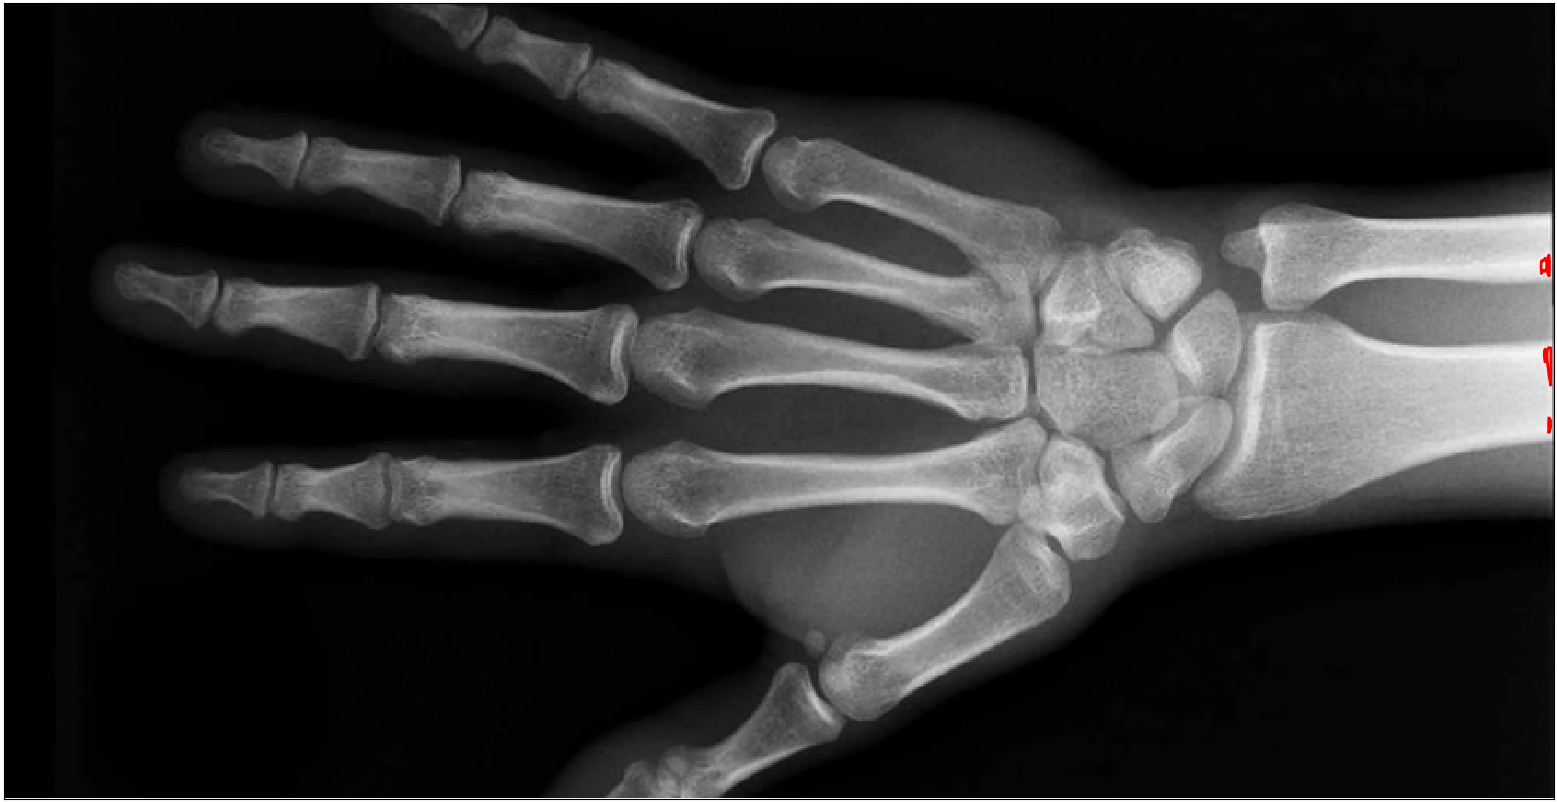
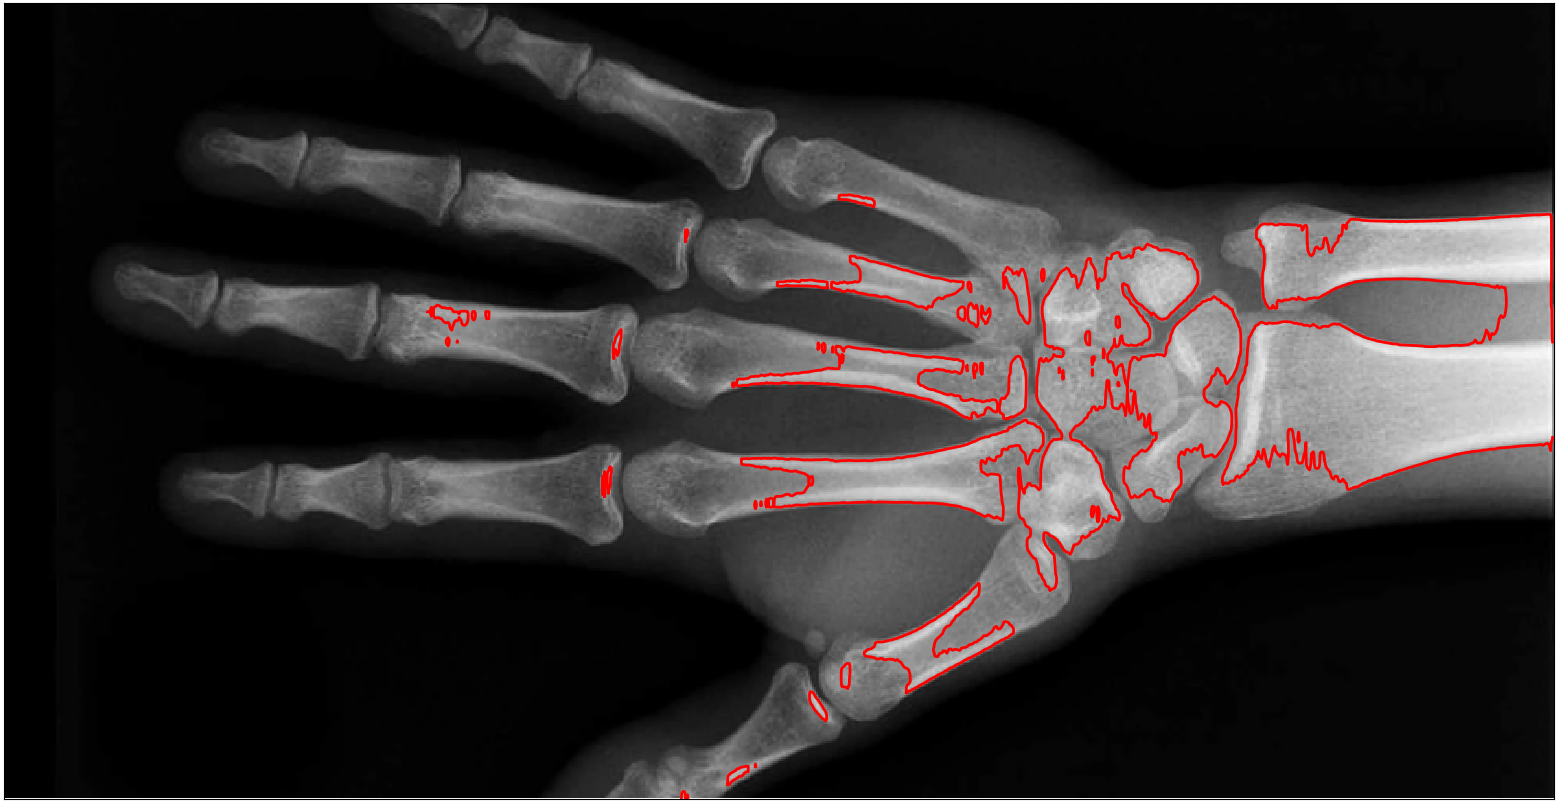
update functions

diff --git a/ui/ui.py b/ui/ui.py
@@ -11,8 +11,9 @@ from PyQt5 import QtCore, QtGui, QtWidgets
 class Ui_MainWindow(object):
     def setupUi(self, MainWindow):
         MainWindow.setObjectName("MainWindow")
-        MainWindow.resize(1235, 732)
+        MainWindow.resize(1331, 732)
         self.centralwidget = QtWidgets.QWidget(MainWindow)
+        self.centralwidget.setMinimumSize(QtCore.QSize(800, 400))
         self.centralwidget.setObjectName("centralwidget")
         self.horizontalLayoutWidget = QtWidgets.QWidget(self.centralwidget)
         self.horizontalLayoutWidget.setGeometry(QtCore.QRect(-1, -1, 1386, 720))
@@ -21,31 +22,39 @@ class Ui_MainWindow(object):
         self.mainLayout.setContentsMargins(50, 50, 50, 50)
         self.mainLayout.setObjectName("mainLayout")
         self.imageWidget = QtWidgets.QWidget(self.horizontalLayoutWidget)
-        self.imageWidget.setMinimumSize(QtCore.QSize(1080, 620))
+        self.imageWidget.setMinimumSize(QtCore.QSize(500, 300))
         self.imageWidget.setObjectName("imageWidget")
         self.imageLayout = QtWidgets.QVBoxLayout(self.imageWidget)
         self.imageLayout.setContentsMargins(20, 20, 20, 20)
         self.imageLayout.setObjectName("imageLayout")
         self.label = QtWidgets.QLabel(self.imageWidget)
-        self.label.setMinimumSize(QtCore.QSize(1040, 0))
         self.label.setObjectName("label")
         self.imageLayout.addWidget(self.label, 0, QtCore.Qt.AlignHCenter)
-        self.mainLayout.addWidget(self.imageWidget, 0, QtCore.Qt.AlignHCenter|QtCore.Qt.AlignVCenter)
+        self.mainLayout.addWidget(self.imageWidget)
         self.controlPanelWidget = QtWidgets.QWidget(self.horizontalLayoutWidget)
+        self.controlPanelWidget.setMaximumSize(QtCore.QSize(300, 16777215))
         self.controlPanelWidget.setObjectName("controlPanelWidget")
         self.controlPanelLayout = QtWidgets.QVBoxLayout(self.controlPanelWidget)
         self.controlPanelLayout.setContentsMargins(20, 20, 20, 20)
         self.controlPanelLayout.setObjectName("controlPanelLayout")
         self.openFileBtn = QtWidgets.QPushButton(self.controlPanelWidget)
+        self.openFileBtn.setMinimumSize(QtCore.QSize(200, 0))
+        self.openFileBtn.setMaximumSize(QtCore.QSize(200, 16777215))
         self.openFileBtn.setObjectName("openFileBtn")
         self.controlPanelLayout.addWidget(self.openFileBtn)
         self.choosePointBtn = QtWidgets.QPushButton(self.controlPanelWidget)
+        self.choosePointBtn.setMinimumSize(QtCore.QSize(200, 0))
+        self.choosePointBtn.setMaximumSize(QtCore.QSize(200, 16777215))
         self.choosePointBtn.setObjectName("choosePointBtn")
         self.controlPanelLayout.addWidget(self.choosePointBtn)
         self.findContourBtn = QtWidgets.QPushButton(self.controlPanelWidget)
+        self.findContourBtn.setMinimumSize(QtCore.QSize(200, 0))
+        self.findContourBtn.setMaximumSize(QtCore.QSize(200, 16777215))
         self.findContourBtn.setObjectName("findContourBtn")
         self.controlPanelLayout.addWidget(self.findContourBtn)
         self.contourOptionWidget = QtWidgets.QWidget(self.controlPanelWidget)
+        self.contourOptionWidget.setMinimumSize(QtCore.QSize(200, 0))
+        self.contourOptionWidget.setMaximumSize(QtCore.QSize(200, 16777215))
         self.contourOptionWidget.setObjectName("contourOptionWidget")
         self.contourOptionLayout = QtWidgets.QFormLayout(self.contourOptionWidget)
         self.contourOptionLayout.setContentsMargins(5, 5, 5, 5)
@@ -63,19 +72,30 @@ class Ui_MainWindow(object):
         self.colorLabel.setObjectName("colorLabel")
         self.contourOptionLayout.setWidget(1, QtWidgets.QFormLayout.LabelRole, self.colorLabel)
         self.colorBtn = QtWidgets.QPushButton(self.contourOptionWidget)
+        self.colorBtn.setText("")
         self.colorBtn.setObjectName("colorBtn")
         self.contourOptionLayout.setWidget(1, QtWidgets.QFormLayout.FieldRole, self.colorBtn)
+        self.label_2 = QtWidgets.QLabel(self.contourOptionWidget)
+        self.label_2.setObjectName("label_2")
+        self.contourOptionLayout.setWidget(2, QtWidgets.QFormLayout.LabelRole, self.label_2)
+        self.valueLine = QtWidgets.QLineEdit(self.contourOptionWidget)
+        self.valueLine.setObjectName("valueLine")
+        self.contourOptionLayout.setWidget(2, QtWidgets.QFormLayout.FieldRole, self.valueLine)
         self.controlPanelLayout.addWidget(self.contourOptionWidget)
         self.deleteContourBtn = QtWidgets.QPushButton(self.controlPanelWidget)
+        self.deleteContourBtn.setMinimumSize(QtCore.QSize(200, 0))
+        self.deleteContourBtn.setMaximumSize(QtCore.QSize(200, 16777215))
         self.deleteContourBtn.setObjectName("deleteContourBtn")
         self.controlPanelLayout.addWidget(self.deleteContourBtn)
         self.saveContourBtn = QtWidgets.QPushButton(self.controlPanelWidget)
+        self.saveContourBtn.setMinimumSize(QtCore.QSize(200, 0))
+        self.saveContourBtn.setMaximumSize(QtCore.QSize(200, 16777215))
         self.saveContourBtn.setObjectName("saveContourBtn")
         self.controlPanelLayout.addWidget(self.saveContourBtn)
-        self.mainLayout.addWidget(self.controlPanelWidget, 0, QtCore.Qt.AlignRight)
+        self.mainLayout.addWidget(self.controlPanelWidget)
         MainWindow.setCentralWidget(self.centralwidget)
         self.menubar = QtWidgets.QMenuBar(MainWindow)
-        self.menubar.setGeometry(QtCore.QRect(0, 0, 1235, 21))
+        self.menubar.setGeometry(QtCore.QRect(0, 0, 1331, 21))
         self.menubar.setObjectName("menubar")
         self.menuFile = QtWidgets.QMenu(self.menubar)
         self.menuFile.setObjectName("menuFile")
@@ -109,7 +129,7 @@ class Ui_MainWindow(object):
     def retranslateUi(self, MainWindow):
         _translate = QtCore.QCoreApplication.translate
         MainWindow.setWindowTitle(_translate("MainWindow", "MainWindow"))
-        self.label.setText(_translate("MainWindow", "TextLabel"))
+        self.label.setText(_translate("MainWindow", "Image will appear here"))
         self.openFileBtn.setText(_translate("MainWindow", "Open New Image"))
         self.choosePointBtn.setText(_translate("MainWindow", "Choose a Point"))
         self.findContourBtn.setText(_translate("MainWindow", "Find Contour"))
@@ -118,7 +138,8 @@ class Ui_MainWindow(object):
         self.thicknessComboBox.setItemText(1, _translate("MainWindow", "2"))
         self.thicknessComboBox.setItemText(2, _translate("MainWindow", "3"))
         self.colorLabel.setText(_translate("MainWindow", "Color:"))
-        self.colorBtn.setText(_translate("MainWindow", "Color"))
+        self.label_2.setText(_translate("MainWindow", "Value (0.0~1.0):"))
+        self.valueLine.setText(_translate("MainWindow", "0.5"))
         self.deleteContourBtn.setText(_translate("MainWindow", "Delete Contour"))
         self.saveContourBtn.setText(_translate("MainWindow", "Save Contour"))
         self.menuFile.setTitle(_translate("MainWindow", "File"))

diff --git a/window.py b/window.py
@@ -22,17 +22,20 @@ toolbarHeight = 21
 class MainWindow(QtWidgets.QMainWindow, form_class):
     resized = QtCore.pyqtSignal()
 
-
     def __init__(self):
         super().__init__()
         self.setupUi(self)
-        self.color = "red"
+        self.color = "#ff0000"
         self.finder = None
+        self.contours = None
+        self.image = QtGui.QImage()
 
         self.resized.connect(self.resizeElem)
+
         self.colorBtn.setStyleSheet("background-color:"+self.color)
-        self.filepath = ""
-        self.value = -1
+        self.originFilePath = ""
+        self.saveFilePath = ""
+        self.value = 0.5
         self.thickness = 0
         self.lineColor = ""
 
@@ -40,69 +43,68 @@ class MainWindow(QtWidgets.QMainWindow, form_class):
         self.horizontalLayoutWidget.setGeometry(QtCore.QRect(0, 0, self.width(), self.height()))
 
 
-
     def resizeEvent(self, event):
         self.resized.emit()
         return super(MainWindow, self).resizeEvent(event)
-
-    def connect_all(self):
-        # self.openFileBtn.clicked.connect(self.on_openFileBtn_clicked)
-        # self.choosePointBtn.clicked.connect(self.on_choosePointBtn_clicked)
-        # self.findContourBtn.clicked.connect(self.on_findContourBtn_clicked)
-        # self.deleteContourBtn.clicked.connect(self.on_deleteContourBtn_clicked)
-        # self.saveContourBtn.clicked.connect(self.on_saveContourBtn_clicked)
-        pass
 
 
 
     @QtCore.pyqtSlot()
     def on_openFileBtn_clicked(self):
+        print("file open")
         try:
-            print("file open")
             fname = QtWidgets.QFileDialog.getOpenFileName(self)
-            self.filepath = fname[0]
-            pixmap = QtGui.QPixmap(fname[0])
+            self.originFilePath = fname[0]
+            self.img = QtGui.QImage(self.originFilePath)
+            pixmap = QtGui.QPixmap(QtGui.QPixmap.fromImage(self.img))
             self.label.setPixmap(pixmap)
 
             self.label.resize(self.imageWidget.sizeHint())
-            self.statusBar.showMessage(self.filepath)
+            self.statusBar.showMessage(self.originFilePath)
 
-            self.finder = ContourFinder(self.filepath)
-        except:
+            self.finder = ContourFinder(self.originFilePath)
+
+            print("open complete")
+        except Exception as e:
             print("open error")
+            print(e)
 
+    def getPos(self, event):
+        x = event.pos().x()
+        y = event.pos().y()
+        val = self.label
 
     @QtCore.pyqtSlot()
     def on_choosePointBtn_clicked(self):
         print("choose")
-        if self.filepath == "":
-            msg = QtWidgets.QMessageBox.information(self, "Warning", "Select an image first !!")
-        else:
+        try:
 
-            msg = QtWidgets.QMessageBox.information(self, "Information", "Choose any point you want")
+            if self.originFilePath is None or self.originFilePath == "":
+                msg = QtWidgets.QMessageBox.information(self, "Warning", "Select an image first !!")
+            else:
+
+                msg = QtWidgets.QMessageBox.information(self, "Information", "Choose any point you want")
+
+
+
+        except Exception as e:
+            print("choose error")
+            print(e)
+
+
 
 
     def paintEvent(self, event):
         try:
             qp = QtGui.QPainter()
-            qp.begin(self)
-            self.drawLines(qp, self.contours)
+            qp.begin(self.label)
+            self.label.drawLines(qp, self.contours)
             qp.end()
         except Exception as e:
             # print(e)
             pass
 
-    def drawLines(self,qp, contours):
 
-        # color = QtGui.QColor(0, 0, 0)
-        # color.setNamedColor(self.color)
-
-        pen = QtGui.QPen(QtCore.Qt.red, 2, QtCore.Qt.SolidLine)
-
-        qp.setPen(pen)
-        for n, contour in enumerate(contours):
-            for i in range(len(contour[:, 1])-1):
-                qp.drawLine(contour[i, 1], contour[i, 0],contour[i+1, 1], contour[i+1, 0])
 
 
 
@@ -111,21 +113,24 @@ class MainWindow(QtWidgets.QMainWindow, form_class):
     def on_findContourBtn_clicked(self):
         try:
             self.finder.setColor(self.color)
-            self.contours = self.finder.find(0.8)
+            self.value = float(self.valueLine.text())
+            self.contours = self.finder.find(self.value)
             self.update()
-
-
-
-            # for n, contour in enumerate(contours):
-            #     for i in range(len(contour[:, 1])-1):
-            #
-            #         qp.drawLine(contour[i, 1], contour[i, 0],contour[i+1, 1], contour[i+1, 0])
             print("그리기 끝")
 
         except Exception as e:
+            print("find error")
             print(e)
 
+    def drawLines(self,qp, contours):
 
+
+        pen = QtGui.QPen(QtCore.Qt.red, 2, QtCore.Qt.SolidLine)
+
+        qp.setPen(pen)
+        for n, contour in enumerate(contours):
+            for i in range(len(contour[:, 1])-1):
+                qp.drawLine(contour[i, 1], contour[i, 0],contour[i+1, 1], contour[i+1, 0])
 
     @QtCore.pyqtSlot()
     def on_deleteContourBtn_clicked(self):
@@ -133,7 +138,21 @@ class MainWindow(QtWidgets.QMainWindow, form_class):
 
     @QtCore.pyqtSlot()
     def on_saveContourBtn_clicked(self):
-        print("save")
+        try:
+            options = QtWidgets.QFileDialog.Options()
+            # options |= QtWidgets.QFileDialog.DontUseNativeDialog
+            fileName, _ = QtWidgets.QFileDialog.getSaveFileName(self,
+                                                                "Save File",
+                                                                "c:\\",
+                                                                "Image files (*.jpg *.gif);;Text Files (*.txt)",
+                                                                options=options)
+            file = open(fileName, 'wb')
+            file.close()
+
+        except Exception as e:
+            print("save error")
+            print(e)
+
 
     @QtCore.pyqtSlot()
     def on_colorBtn_clicked(self):
@@ -149,7 +168,6 @@ if __name__ == "__main__":
     import sys
     app = QtWidgets.QApplication(sys.argv)
     window = MainWindow()
-    window.connect_all()
     window.show()
     sys.exit(app.exec_())
 

diff --git a/Drawable.py b/Drawable.py
@@ -1,0 +1,23 @@
+from PyQt5 import QtCore, QtGui, QtWidgets
+from PyQt5 import uic
+from Algo import ContourFinder
+
+
+class DrawableQLabel(QtWidgets.QLabel):
+    def __init__(self, parent=None):
+        super(DrawableQLabel, self).__init__(parent=parent)
+
+    def paintEvent(self, e):
+        try:
+            super().paintEvent(e)
+            qp = QtGui.QPainter(self)
+            qp.drawPixmap(100, 100, QtGui.QPixmap())
+        except:
+
+
+
+
+
+    def take_screenshot(self):
+        p = QtGui.QPixmap.grabWindow(self.winId())
+        p.save("images/capture.jpg", 'jpg')
